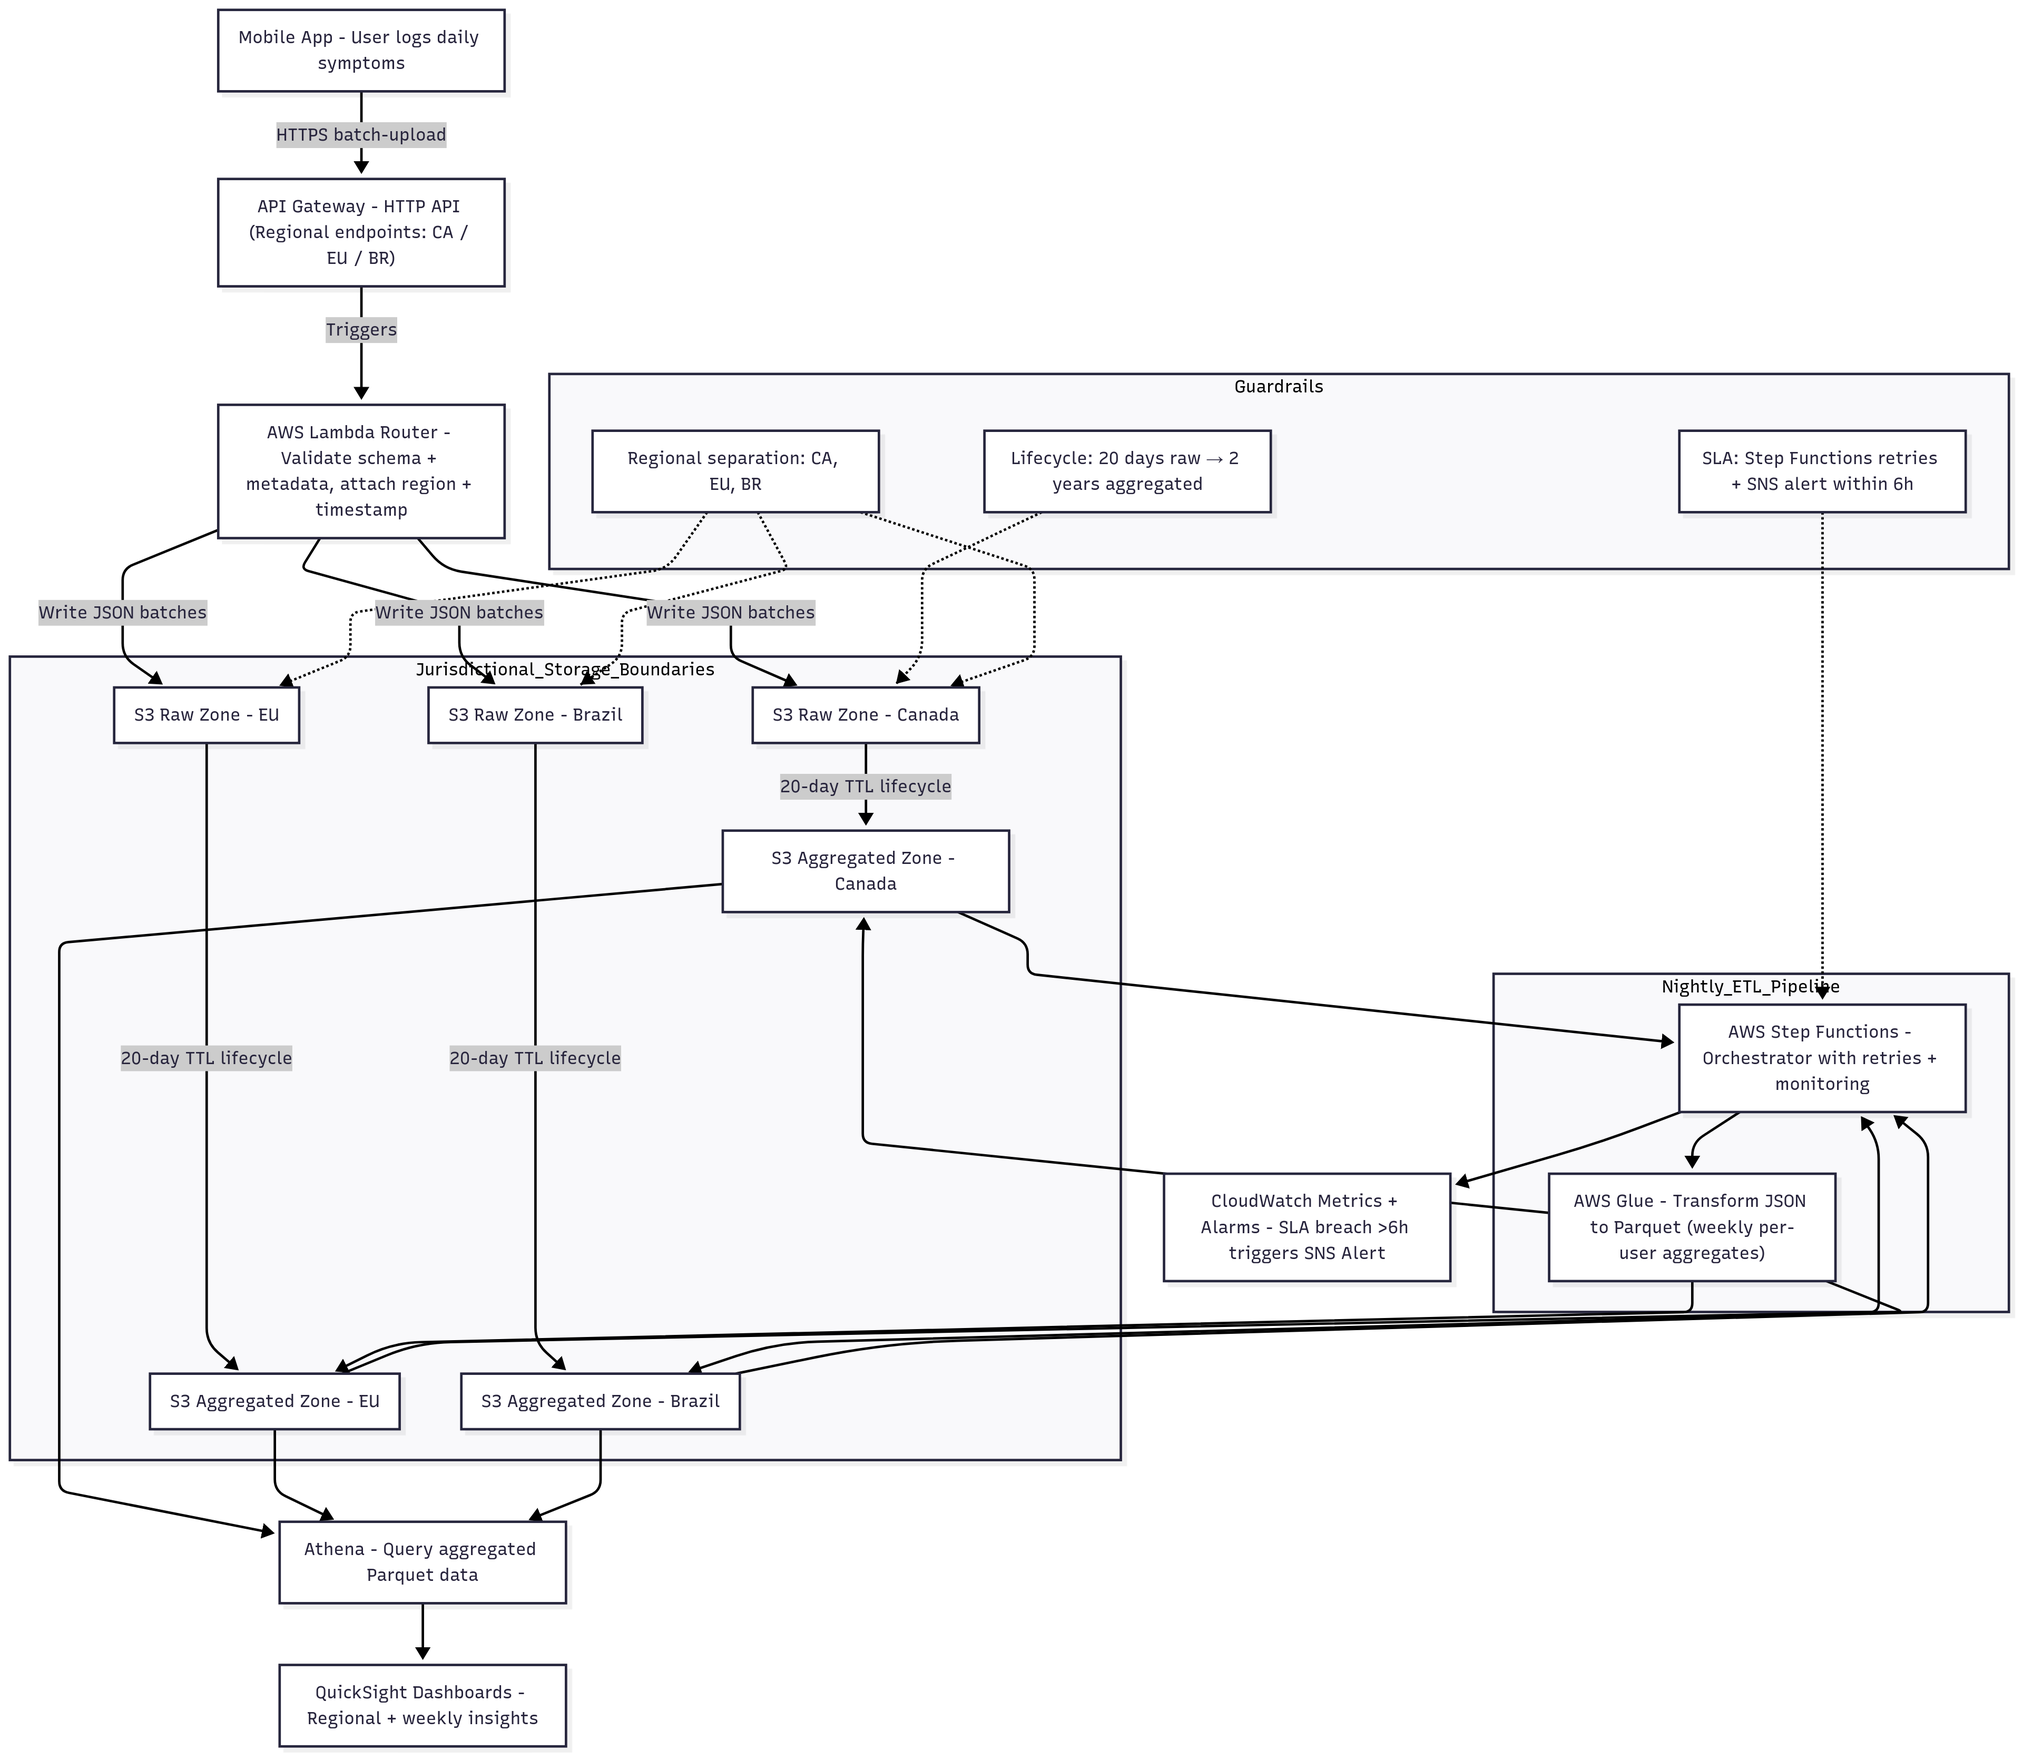
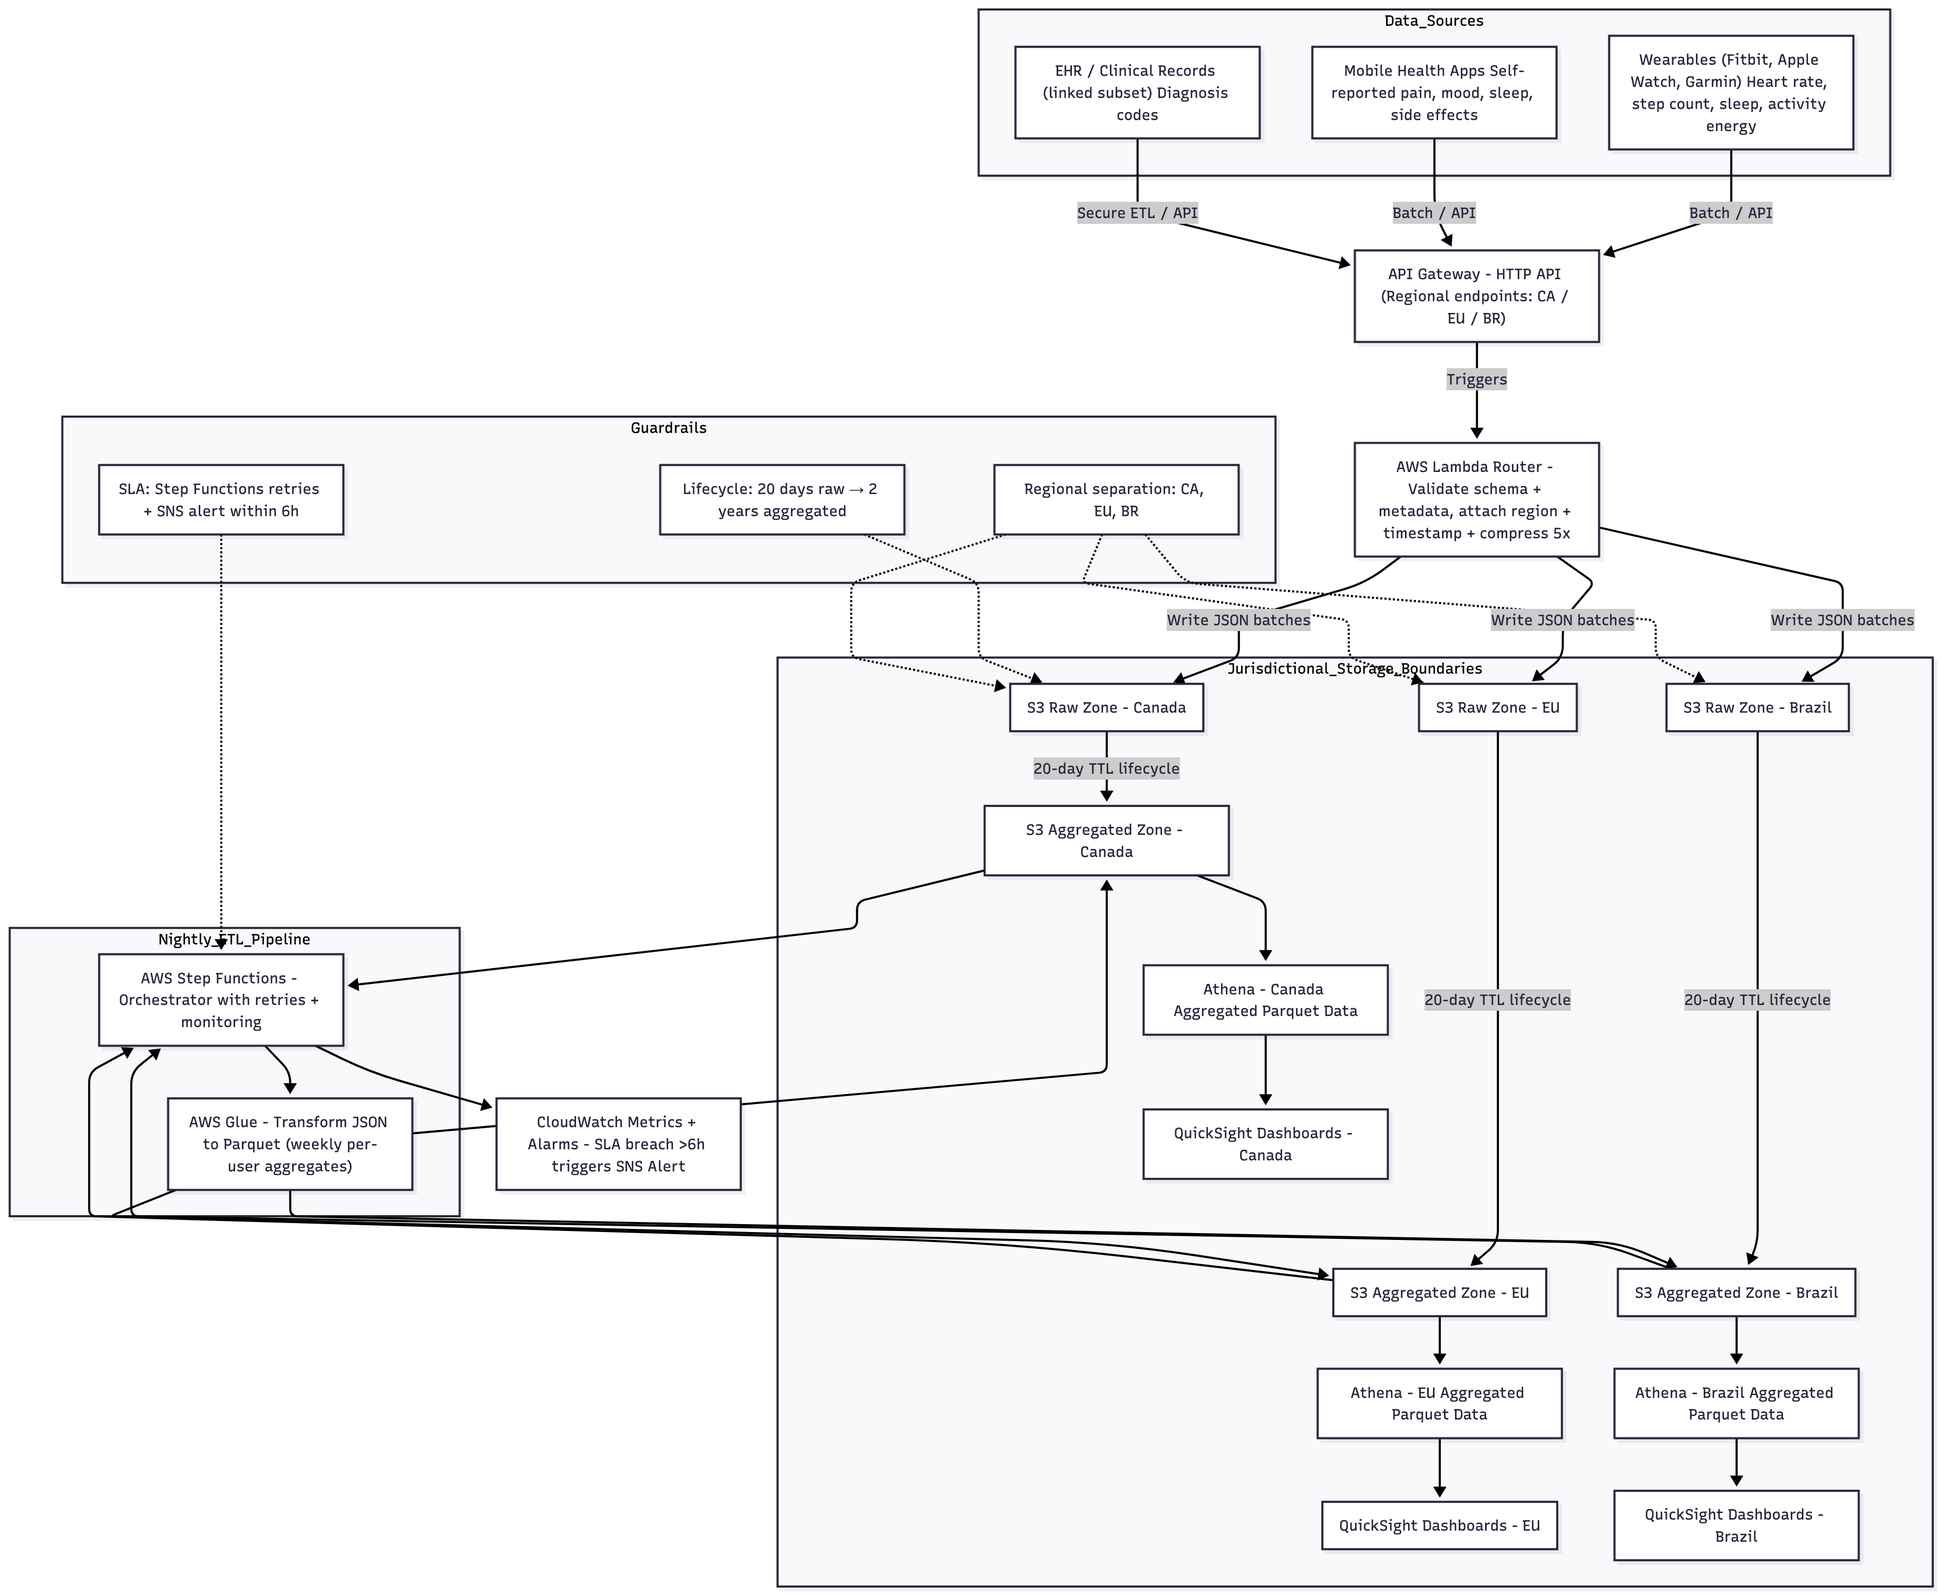
Add PIA

diff --git a/privacy_ethics_packet/PIA.md b/privacy_ethics_packet/PIA.md
@@ -1,0 +1,142 @@
+# Privacy Impact Assessment (PIA) — Patient Symptom Data Ingestion
+
+## 1. Overview
+**Purpose:** Collect, process, and analyze patient symptom data from mobile apps, wearables, and clinical records to generate insights on treatment response. 
+**Scope:** Regional ingestion in Canada, EU, and Brazil; serverless architecture with S3, Lambda, Glue, Step Functions, Athena, and QuickSight.  
+
+**Data Processing Summary:**  
+- **Collection:** Mobile app uploads, wearables API, EHR/clinical records (linked subset).  
+- **Processing:** Validation, metadata enrichment, JSON → Parquet transformation, anonymization, aggregation.  
+- **Sharing:** Aggregated dashboards per jurisdiction; restricted access per role.  
+- **Retention:** Raw data TTL = 20 days; aggregated data retained for 2 years; automated deletion policies.
+
+---
+
+## 2. Data Inventory
+
+| Field | Source | Purpose | Lawful Basis | Minimization | Retention | Access Roles |
+|-------|--------|--------|--------------|-------------|-----------|--------------|
+| `user_id` | Mobile App | Identify user for per-user aggregation | Consent / HIPAA-equivalent | Pseudonymized / hashed | 20 days (raw), 2 years (aggregated) | Data Engineer, Analyst |
+| `timestamp` | Mobile App / Wearable | Time-series alignment | Consent | Round to nearest minute/hour where possible | 20 days / 2 years | Data Engineer, Analyst |
+| `symptom` | Mobile App | Health monitoring | Consent | Only required fields collected | 20 days / 2 years | Data Engineer, Analyst |
+| `duration` | Mobile App | Symptom analysis | Consent | Rounded to nearest hour | 20 days / 2 years | Data Engineer, Analyst |
+| `heart_rate`, `sleep_quality`, `steps` | Wearables | Treatment response monitoring | Consent | Only relevant metrics collected | 20 days / 2 years | Data Engineer, Analyst |
+| `diagnosis_codes` | EHR subset | Establish treatment periods | Consent / Legal Agreement | Only linked subset | 20 days / 2 years | Data Engineer, Analyst |
+
+---
+
+## 3. Linkability & Identifiability
+- **Linking:** Data linked per hashed/pseudonymized `user_id`. Aggregation prevents identification outside jurisdiction.  
+- **Quasi-identifiers:** IP, device metadata, and timestamps exist but are pseudonymized; risk mitigated by aggregation and anonymization.  
+- **Re-identification Risk:** Minimal for dashboards; raw data TTL and strict access control reduce exposure.
+
+---
+
+## 4. Purpose Limitation & Secondary Use
+- **Declared Purposes:** Treatment-response monitoring, clinical research, and patient insights.  
+- **Approval for New Purposes:** Any secondary use must be approved by governance board and logged; patient opt-in required.  
+- **Function Creep Protection:** Anonymization and regional partitioning prevent unapproved linkage or sharing.
+
+---
+
+## 5. Minimization & Retention
+- **Aggregation:** Weekly per-user summaries only; removes daily granularity.  
+- **Anonymization:** Pseudonymization of `user_id`, truncation of timestamps, removal of rare quasi-identifiers.  
+- **Raw TTL:** 20 days; aggregated retention: 2 years.  
+- **Secure Deletion:** Lifecycle policies enforce automatic deletion; S3 versioning disabled for privacy-critical buckets.
+
+---
+
+## 6. Access Control & Governance
+- **Roles:**  
+  - Data Engineers: write raw & aggregated data, run ETL.  
+  - Analysts: query aggregated data via Athena.  
+  - Clinicians / Researchers: QuickSight dashboard access.  
+- **Least Privilege:** IAM policies enforce access per region and role.  
+- **Auditability:** CloudTrail + CloudWatch logging for all S3, Lambda, Glue, Athena accesses.  
+- **Third Parties:** None currently. If added, contracts include strict data residency and processing clauses.
+
+---
+
+## 7. Transparency & Choice
+- **Communication Plan:** App and portal disclose what is collected, why, and retention period.  
+- **Opt-in / Opt-out:** Patients must consent to mobile app data collection; aggregated analytics opt-out supported for research dashboards.
+
+---
+
+## 8. Security
+- **Threats:** Abuse, scraping, accidental cross-region replication, doxxing.  
+- **Mitigations:**  
+  - WAF on API Gateway, rate limiting, batch uploads to reduce request noise.  
+  - Transport encryption (HTTPS/TLS 1.2+).  
+  - Secrets management via AWS Secrets Manager.  
+  - Cross-region replication disabled for sensitive Indigenous/Canadian data.
+
+---
+
+## 9. Compliance & Policy Alignment
+- **Policies:** OCAP®, GDPR, PIPEDA, LGPD, HIPAA-equivalent compliance.  
+- **Implementation:** Regional buckets, lifecycle management, data minimization, audit logging, encryption at rest & in transit.
+
+---
+
+## 10. Residual Risks & Trade-offs
+- **Residual Risks:**  
+  - Risk of re-identification from small cohorts.  
+  - ETL/Glue misconfiguration exposing raw data outside jurisdiction.  
+  - Delays in dashboard updates if Step Functions fail.  
+- **Contingency Measures:**  
+  - Daily monitoring via CloudWatch/SNS alerts.  
+  - Manual intervention plan and SLA enforcement (<6h ETL).  
+  - Regular review of anonymization and aggregation policies.
+
+---
+
+# Telemetry Decision Matrix
+
+| Telemetry Item | Source / System | Purpose | Level of Identifiability | Storage Location / Zone | Retention | Access Roles | Notes / Controls |
+|----------------|----------------|--------|------------------------|-----------------------|-----------|--------------|----------------|
+| Mobile App Logs (API calls, errors) | Mobile app → API Gateway | Monitor ingestion, debug failures, SLA adherence | Low (no user payload, only request metadata) | CloudWatch Logs | 30 days | DevOps, Data Engineer | Mask user IPs; batch logs; rate limiting applied |
+| Batch Upload Payload Metadata | API Gateway / Lambda | Verify batch completion, user activity | Medium (hashed user ID) | S3 Raw Zone per region | 20 days | Data Engineer | Payload content anonymized before aggregation; sensitive fields hashed/pseudonymized |
+| Lambda Execution Metrics | AWS Lambda | Monitor function runtime, errors, invocations | None | CloudWatch Metrics | 90 days | DevOps | No payload data included |
+| Glue Job Metrics | AWS Glue | ETL pipeline monitoring | None | CloudWatch Metrics / Logs | 90 days | Data Engineer | Includes job duration, processed record counts |
+| Step Functions Transitions | Step Functions | ETL orchestration monitoring | None | CloudWatch Metrics | 90 days | Data Engineer, DevOps | SLA alerting on >6h completion |
+| S3 Object Access Logs | S3 (Raw & Aggregated) | Audit data reads/writes, detect anomalies | Medium (hashed user IDs in paths) | S3 Audit bucket per region | 1 year | Compliance, Data Engineer | Cross-region replication disabled; logging read/write only |
+| Athena Query Logs | Athena | Track queries for auditing, cost analysis | Low (aggregated queries) | CloudTrail / S3 | 90 days | Data Engineer, Analyst | Only aggregated data queried; user-level identifiers removed |
+| QuickSight Dashboard Access | QuickSight | User activity, audit, licensing | Low (role-based) | QuickSight Audit Logs | 1 year | Compliance, Product Owner | Role-based access only; aggregated results |
+| Error & Alert Notifications | SNS / CloudWatch | Incident response | None | CloudWatch / SNS | 30 days | DevOps, Compliance | Alerts on SLA breach, ETL failure, unusual access |
+
+**Key Notes / Practices:**  
+1. All telemetry data is collected **per region** to enforce jurisdictional compliance.  
+2. Personally identifiable information (PII) is **pseudonymized or hashed** before storage.  
+3. Retention policies align with privacy TTLs: 20 days for raw, 2 years for aggregates, and logs typically 90 days to 1 year.  
+4. Access is **role-based and least-privilege**; all accesses logged and auditable.  
+5. Telemetry data is **not used for analytics**, only for monitoring, compliance, and system reliability.  
+
+## Recourse & Remedy
+
+**Objective:**  
+Provide patients and stakeholders with clear mechanisms to address concerns, errors, or unauthorized access related to their health data.
+
+### Patient Recourse
+| Issue | Mechanism | Responsible Party | SLA / Response Time |
+|-------|-----------|-----------------|------------------|
+| Incorrect or incomplete symptom data | Submit request via mobile app “Report an Issue” feature | Data Steward / Data Engineer | Acknowledge within 24h; fix within 72h |
+| Unauthorized data access | Contact compliance team via secure email / portal | Compliance Officer | Investigation initiated within 24h; resolution within 7 days |
+| Data deletion / retention query | Submit Data Subject Access Request (DSAR) | Data Steward | Response within 30 days (per GDPR / local privacy laws) |
+| Discrepancies in aggregated insights | Contact clinical analytics support | Data Analyst / Compliance | Confirm calculation & report back within 5 business days |
+
+### Operational Remedies
+| Issue | Remedy | Notes / Controls |
+|-------|--------|----------------|
+| Cross-region data transfer violation | Immediate suspension of replication; audit logs reviewed; alert to compliance team | AWS region-level guardrails enforced via IAM policies |
+| Data breach or exfiltration | Incident response plan triggered; notify affected patients per legal requirements | WAF, encryption at rest/in transit, anomaly detection in CloudWatch |
+| ETL or aggregation errors | Re-run nightly Glue jobs with previous raw snapshots; verify aggregates | Versioned S3 raw data retained for 20 days for remediation |
+| SLA breach (>6h ETL pipeline) | Step Functions retries; SNS alert triggers on-call engineer | SLA monitoring and escalation policy enforced |
+
+**Key Principles:**  
+1. **Transparency:** Patients are notified of any data issue impacting them.  
+2. **Timeliness:** Defined response times ensure issues are addressed promptly.  
+3. **Auditability:** All requests, investigations, and remediation actions are logged for compliance review.  
+4. **Jurisdictional Compliance:** Remedies respect regional data residency requirements (CA, EU, BR).  
+5. **Continuous Improvement:** Root causes are tracked and mitigation strategies implemented to prevent recurrence.

diff --git a/Design_Brief.md b/Design_Brief.md
@@ -63,13 +63,12 @@ If users have revoked consent, the pipeline will delete their data from raw data
 | **1. Data Ingestion** | Single centralized S3 bucket (e.g., `global-health-data`) where all raw data (Canada, EU, Brazil) is uploaded. | Three **regional S3 buckets**: <br>• `s3://health-canada-raw/` (ca-central-1) <br>• `s3://health-eu-raw/` (eu-west-1) <br>• `s3://health-brazil-raw/` (sa-east-1). Each region ingests locally to preserve data residency. |
 | **2. ETL / Processing** | One AWS Glue job (in `us-east-1`) processes and converts all data to Parquet format. No compression or schema optimization applied — large storage footprint. | Separate **AWS Glue jobs per region** (1 DPU each), run sequentially via Step Functions to control costs and respect regional boundaries. Converts data to **partitioned Parquet** with **Snappy compression**, stored in `s3://health-<region>-processed/`. |
 | **3. Workflow Orchestration** | Minimal orchestration; manual or single Lambda trigger. | **AWS Step Functions** orchestrate the pipeline end-to-end (Lambda → Glue → aggregation). Includes **step-level retries**, **idempotent runs**, and clear failure states. |
-| **4. Aggregation / Analytics** | Central Redshift or Athena dataset containing global data. | **Federated Athen** operate on **regional aggregates only** — no raw cross-border transfers. |
-| **5. Security / Privacy Controls** | Global IAM roles and a single KMS key. | Region-specific **KMS encryption keys**, least-privilege IAM policies, and **data-at-rest + in-transit encryption** per region. |
-| **6. Consent & Deletion Management** | Manual deletions or ad-hoc database updates. | Automated via **`DeletionRequestLog`** + Lambda cleanup job per region. Supports consent withdrawal and deletion SLAs (7–30 days depending on regulation). |
-| **7. Monitoring & Cost Control** | Only global CloudWatch metrics. | **CloudWatch dashboards per region** track p95 completion, Glue costs, and SLA compliance. **Billing alerts** ensure spend stays ≤ $500 / month. |
-| **8. Compliance Alignment** | Violates GDPR/LGPD/OCAP by moving personal data across regions. | Fully compliant with **GDPR Art. 44**, **LGPD Art. 33**, **PIPEDA (residency & consent)**, and **OCAP®** (Indigenous data sovereignty). |
-| **9. Performance Target** | Single job handling all data → longer runtimes. | Sequential per-region processing with optimized Glue jobs → **p95 < 7 hours** (fits 00:00 – 06:00 window). |
-| **10. Cost Efficiency** | Centralized processing with unpredictable cost scaling and larger S3 storage due to uncompressed files. | 3 Glue jobs × 1 DPU each; sequential schedule → **≈ $198/month Glue + $100 Lambda/Step Functions + $180 S3 storage = <$500/month total.** Parquet compression reduces S3 costs by ~60–70%. |
+| **4. Security / Privacy Controls** | Global IAM roles and a single KMS key. | Region-specific **KMS encryption keys**, least-privilege IAM policies, and **data-at-rest + in-transit encryption** per region. |
+| **5. Consent & Deletion Management** | Manual deletions or ad-hoc database updates. | Automated via **`DeletionRequestLog`** + Lambda cleanup job per region. Supports consent withdrawal and deletion SLAs (7–30 days depending on regulation). |
+| **6. Monitoring & Cost Control** | Only global CloudWatch metrics. | **CloudWatch dashboards per region** track p95 completion, Glue costs, and SLA compliance. **Billing alerts** ensure spend stays ≤ $500 / month. |
+| **7. Compliance Alignment** | Violates GDPR/LGPD/OCAP by moving personal data across regions. | Fully compliant with **GDPR Art. 44**, **LGPD Art. 33**, **PIPEDA (residency & consent)**, and **OCAP®** (Indigenous data sovereignty). |
+| **8. Performance Target** | Single job handling all data → longer runtimes. | Sequential per-region processing with optimized Glue jobs → **p95 < 7 hours** (fits 00:00 – 06:00 window). |
+| **9. Cost Efficiency** | Centralized processing with unpredictable cost scaling and larger S3 storage due to uncompressed files. | 3 Glue jobs × 1 DPU each; sequential schedule → **≈ $198/month Glue + $100 Lambda/Step Functions + $180 S3 storage = <$500/month total.** Parquet compression reduces S3 costs by ~60–70%. |
 
 ---
 
